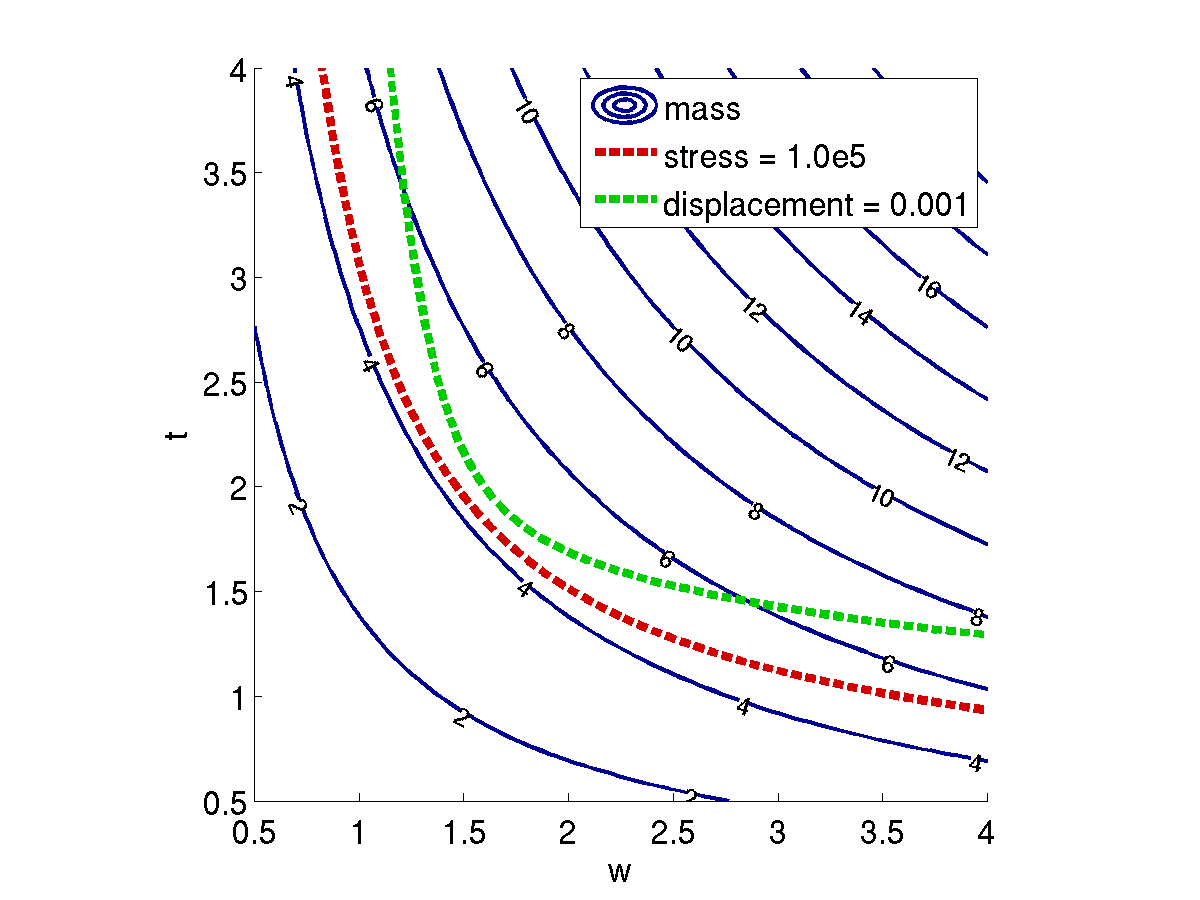
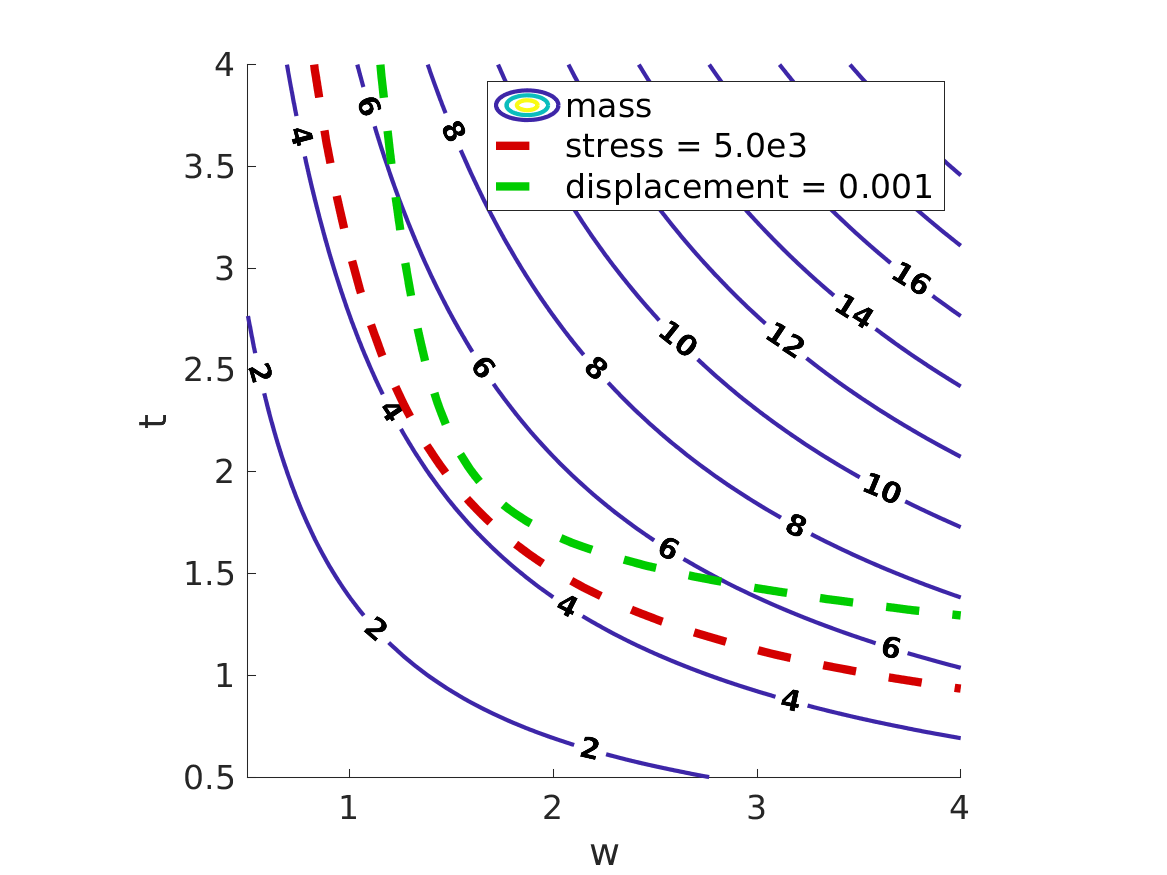
Training examples: Update Optimization baselines
DAK-2712: Per changes in cantilever stress equation, update
optimization exercises, solutions, and baseline. Scaled the stress
constraint by multiplicative 0.2 factor as the nominal beam is 5.0
(0.2 of the previous hard-coded 100.0).

Training materials will need update to use 5.0e3 for stress constraint

Also update contour plots

diff --git a/examples/training/solutions/optimization/plot_cantilever_constraints.m b/examples/training/solutions/optimization/plot_cantilever_constraints.m
@@ -10,8 +10,8 @@ Y = 500.0;
 X = 350.0;
 E = 2.9e7;
 
-alpha = 600*Y;
-beta = 600*X;
+%alpha = 600*Y;
+%beta = 600*X;
 
 dakotared  =[0.83 0    0   ]; %inputs
 dakotagreen=[0    0.8  0   ]; %constraints
@@ -31,8 +31,8 @@ set(gca,'Fontsize',16);
 xlabel('w','Fontsize',18);
 ylabel('t','Fontsize',18); 
 
-stress = 600*Y./(w.*t.^2) + 600*X./(w.^2.*t);
-contour(w,t,stress,[1.0e5 1.0e5],'linecolor',dakotared,'linewidth',4, 'linestyle','--')
+stress = 6*L*Y./(w.*t.^2) + 6*L*X./(w.^2.*t);
+contour(w,t,stress,[5.0e3 5.0e3],'linecolor',dakotared,'linewidth',4, 'linestyle','--')
 
 s1 = (Y./(t.^2)).^2;
 s2 = (X./(w.^2)).^2;
@@ -42,7 +42,7 @@ contour(w,t,displ,[0.001 0.001],'linecolor',dakotagreen,'linewidth',4, 'linestyl
   
 hold off
 
-h=legend('mass','stress = 1.0e5','displacement = 0.001', ...
+h=legend('mass','stress = 5.0e3','displacement = 0.001', ...
          'location','northeast');
 set(h,'fontsize',16);
 
